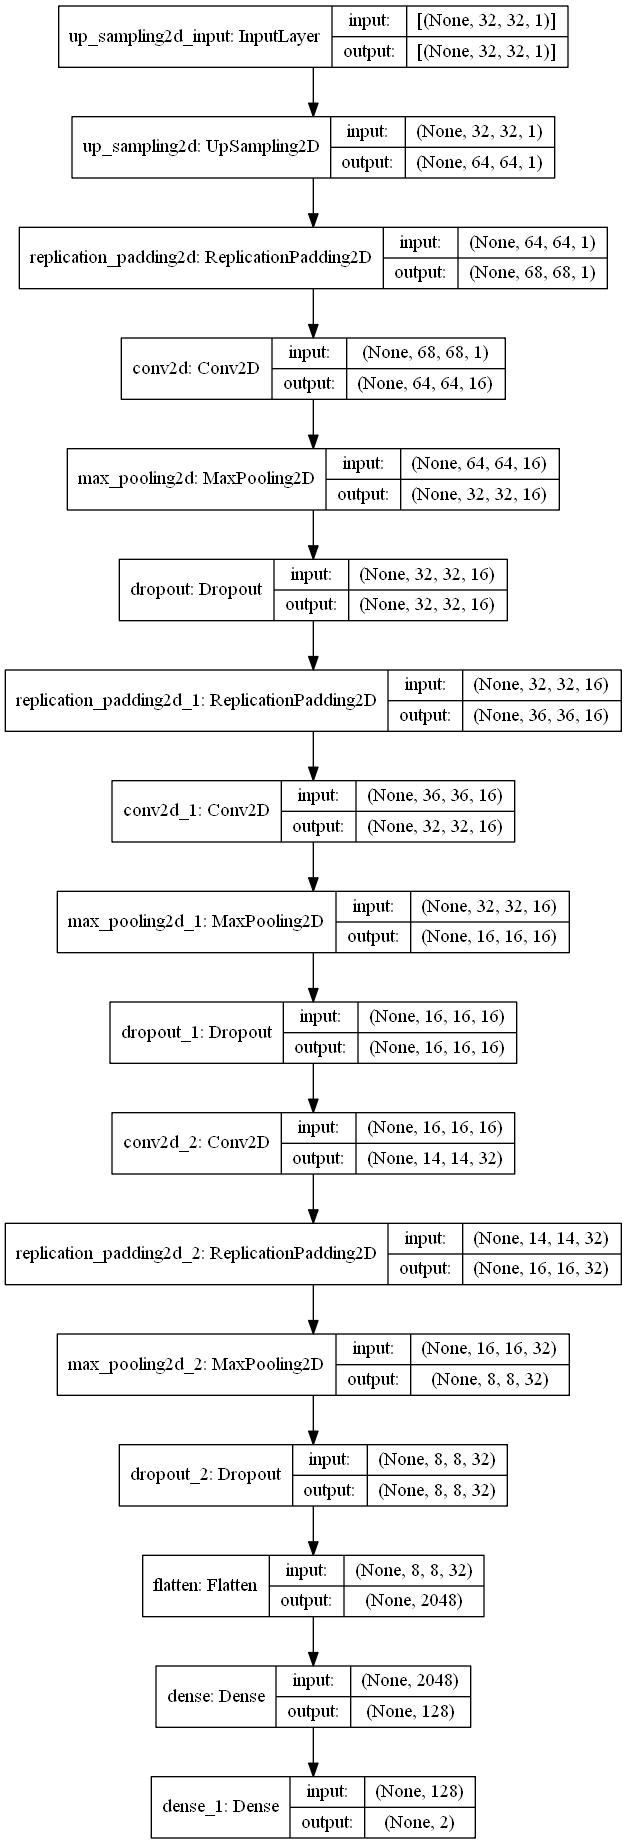
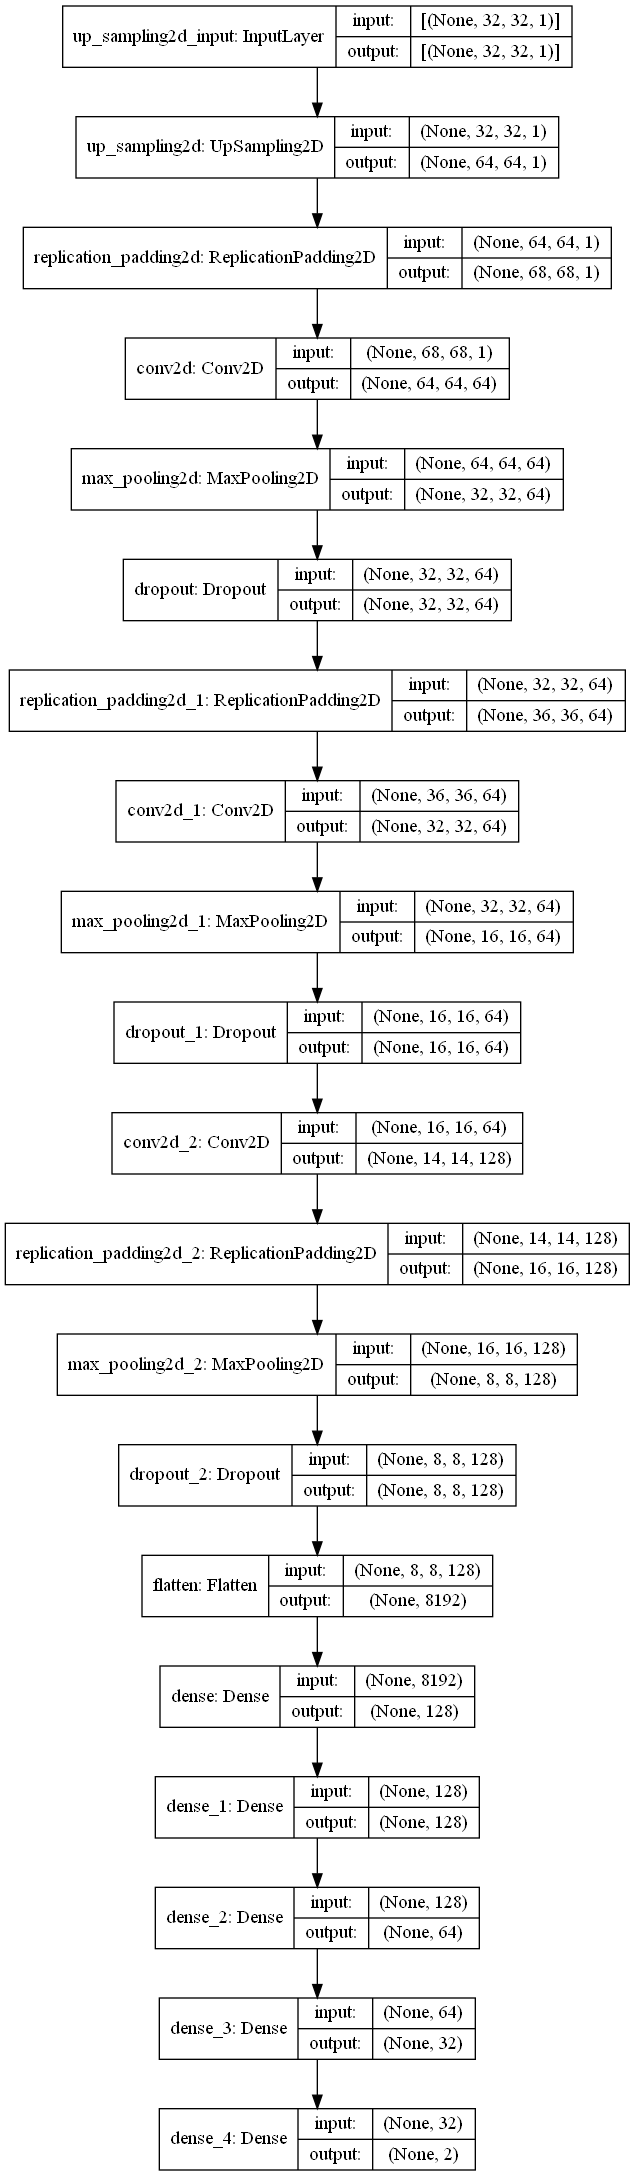
ss

Changed region(s): [[0.0, 0.0, 1.0, 1.0], [0.9091, 0.6491, 0.9697, 0.711]]

diff --git a/main.py b/main.py
@@ -8,34 +8,73 @@ from keras.utils import plot_model
 import Gloable_Var
 import Models
 
-index_Array = np.loadtxt( Gloable_Var.data_p + "\LC_fit\Good_Index.txt")
-# index_Array = np.arange(180)
-index_Array = index_Array.astype(int)
+def CNN_model():
+    index_Array = np.loadtxt( Gloable_Var.data_p + "\LC_fit\Good_Index.txt")
+    # index_Array = np.arange(180)
+    index_Array = index_Array[0:10000].astype(int)
 
 
-X_Buff, Y_Buff = Load_data.load_data_with_array(index_Array)
+    X_Buff, Y_Buff = Load_data.load_data_with_array(index_Array)
 
 
-num_pixels = X_Buff.shape[1]
-n_out = 2
-print(X_Buff.shape)
-X_Buff = X_Buff[:, :,:,np.newaxis]
-print(X_Buff.shape)
-L_Max = 0.8 * max(Y_Buff[:,0])
-C_Max = 0.8 * max(Y_Buff[:,1])
+    num_pixels = X_Buff.shape[1]
+    n_out = 2
+    print(X_Buff.shape)
+    X_Buff = X_Buff[:, :,:,np.newaxis]
+    print(X_Buff.shape)
+    L_Max = 0.8 * max(Y_Buff[:,0])
+    C_Max = 0.8 * max(Y_Buff[:,1])
 
-Y_Nor = np.zeros(np.shape(Y_Buff))
-Y_Nor[:,0] = Y_Buff[:,0]/L_Max
-Y_Nor[:,1] = Y_Buff[:,1]/C_Max
-
-
-X_train, X_test, Y_train, Y_test = train_test_split(X_Buff, Y_Buff, test_size=0.33, random_state=42)
+    Y_Nor = np.zeros(np.shape(Y_Buff))
+    Y_Nor[:,0] = Y_Buff[:,0]/L_Max
+    Y_Nor[:,1] = Y_Buff[:,1]/C_Max
 
 
-model = Models.CNN_model_2(num_pixels, n_out)
-plot_model( model, "CNN_2.png", show_shapes=True )
+    X_train, X_test, Y_train, Y_test = train_test_split(X_Buff, Y_Buff, test_size=0.33, random_state=42)
 
-model.fit(X_train, Y_train, validation_data=(X_test, Y_test), epochs=10, batch_size=10, verbose=2)
+    Model_name = "CNN_2"
+    Training_ite = Model_name+"_Try_3_larger"
+    model = Models.CNN_model_2(num_pixels, n_out)
+    plot_model( model, Model_name+".png", show_shapes=True )
 
-scores = model.evaluate(X_test, Y_test, verbose=0)
+    history = model.fit(X_train, Y_train, validation_data=(X_test, Y_test), epochs=100, batch_size=500, verbose=2)
+    np.save(Training_ite+".npy", history.history)
 
+    scores = model.evaluate(X_test, Y_test, verbose=0)
+
+def Baseline_model():
+    index_Array = np.loadtxt( Gloable_Var.data_p + "\LC_fit\Good_Index.txt")
+    # index_Array = np.arange(180)
+    index_Array = index_Array[0:10000].astype(int)
+
+
+    X_Buff, Y_Buff = Load_data.load_data_with_array(index_Array)
+
+
+    num_pixels = X_Buff.shape[1]
+    n_out = 2
+    num_pixels = X_Buff.shape[1] * X_Buff.shape[2]
+    X_Buff = X_Buff.reshape((X_Buff.shape[0], num_pixels)).astype('float32')
+
+    L_Max = 0.8 * max(Y_Buff[:,0])
+    C_Max = 0.8 * max(Y_Buff[:,1])
+
+    Y_Nor = np.zeros(np.shape(Y_Buff))
+    Y_Nor[:,0] = Y_Buff[:,0]/L_Max
+    Y_Nor[:,1] = Y_Buff[:,1]/C_Max
+
+
+    X_train, X_test, Y_train, Y_test = train_test_split(X_Buff, Y_Buff, test_size=0.1, random_state=4642)
+
+    Model_name = "Baseline_2"
+    Training_ite = Model_name+"_Try_1"
+    model = Models.baseline_model(num_pixels, n_out)
+    plot_model( model, Model_name+".png", show_shapes=True )
+
+    history = model.fit(X_train, Y_train, validation_data=(X_test, Y_test), epochs=100, batch_size=500, verbose=2)
+    np.save(Training_ite+".npy", history.history)
+
+    scores = model.evaluate(X_test, Y_test, verbose=0)
+
+
+Baseline_model()

diff --git a/Models.py b/Models.py
@@ -11,11 +11,24 @@ import keras
 def baseline_model(in_dim, n_out):
     model = Sequential()
     model.add(Dense(in_dim, input_dim= in_dim, activation="sigmoid"))
-    model.add(Dense(0.5*in_dim, activation="sigmoid"))
+    model.add(Dense(2 * in_dim, activation="sigmoid"))
+    model.add(Dense(2 * in_dim, activation="relu"))
+    model.add(Dense(4 * in_dim, activation="sigmoid"))
+    model.add(Dense(4 * in_dim, activation="relu"))
+    model.add(Dense(2 * in_dim, activation="sigmoid"))
+    model.add(Dense(2 * in_dim, activation="relu"))
+    model.add(Dense( in_dim, activation="relu"))
+    model.add(Dense( in_dim, activation="sigmoid"))
+    model.add(Dense(0.5 * in_dim, activation="relu"))
+    model.add(Dense(0.5 * in_dim, activation="sigmoid"))
+    model.add(Dense(0.25 * in_dim, activation="relu"))
+    model.add(Dense(0.125 * in_dim, activation="relu"))
+    model.add(Dense( in_dim /32, activation="relu"))
+    model.add(Dense(in_dim / 128, activation="relu"))
     model.add(LeakyReLU(alpha=0.1))
     model.add(Dense(n_out, activation="sigmoid"))
 
-    opt = keras.optimizers.SGD(learning_rate=0.01, momentum=0.5)
+    opt = keras.optimizers.SGD(learning_rate=0.4, momentum=0.0)
     # losses = keras.losses.mean_absolute_error()
     model.compile(loss="MAE", optimizer=opt )
 
@@ -53,16 +66,16 @@ def CNN_model_2( n_pix, n_out):
 
     model.add(UpSampling2D((2,2), input_shape=(n_pix, n_pix, 1)))
     model.add(ReplicationPadding2D(padding=(2, 2)))
-    model.add(Conv2D(16, (5, 5), activation='sigmoid'))
+    model.add(Conv2D(64, (5, 5), activation='sigmoid'))
     model.add(MaxPooling2D())
     model.add(Dropout(0.2))
 
     model.add(ReplicationPadding2D(padding=(2, 2)))
-    model.add(Conv2D(16, (5, 5), activation='sigmoid'))
+    model.add(Conv2D(64, (5, 5), activation='sigmoid'))
     model.add(MaxPooling2D())
     model.add(Dropout(0.2))
 
-    model.add(Conv2D(32, (3, 3), activation='sigmoid'))
+    model.add(Conv2D(128, (3, 3), activation='sigmoid'))
     model.add(ReplicationPadding2D(padding=(1, 1)))
     model.add(MaxPooling2D())
     model.add(Dropout(0.2))
@@ -74,6 +87,9 @@ def CNN_model_2( n_pix, n_out):
 
     model.add(Flatten())
     model.add(Dense(128, activation='sigmoid'))
+    model.add(Dense(128, activation='sigmoid'))
+    model.add(Dense(64, activation='sigmoid'))
+    model.add(Dense(32, activation='sigmoid'))
     model.add(Dense(n_out, activation='sigmoid'))
     # Compile model
     opt = keras.optimizers.SGD(learning_rate=0.01, momentum=0.5)

diff --git a/Load_data.py b/Load_data.py
@@ -9,18 +9,16 @@ def load_data_with_array(index_Array):
     load_y_p = Var.data_p + "LC_fit\\"
     Buff_LC = np.array([])
     for i in range(Max + 1):
-        print(i)
         lc_nm = "LC_P" + str(i) + ".txt"
         if (Buff_LC.size == 0):
             Buff_LC = np.loadtxt(load_y_p + lc_nm)
         else:
             Buff_LC = np.append(Buff_LC, np.loadtxt(load_y_p + lc_nm), axis=0)
-        print(np.shape(Buff_LC))
-
+        print(i, "in", Max )
+    print("finish loading LC cir")
     load_x_p = Var.data_p + "Mat\\"
 
     x = np.array([])
-    print(x.size)
     y = np.array([])
     for i in range(len(index_Array)):
         x_nm = "Mat_" + str(index_Array[i]) + ".txt"
@@ -33,8 +31,10 @@ def load_data_with_array(index_Array):
             y = [Buff_LC[index_Array[i], 1:3]]
         else:
             y = np.append(y, [Buff_LC[index_Array[i], 1:3]], axis=0)
+        if(i%N_pack == 0):
+            print(i, "in", range(len(index_Array)))
+    print("print finish loading X")
 
-    print(np.shape(y))
     return x, y
 
 

diff --git a/Test_Pool.py b/Test_Pool.py
@@ -27,7 +27,7 @@ def baseline_model():
     Y_Nor = np.zeros(np.shape(Y_Buff))
     Y_Nor[:,0] = Y_Buff[:,0]/L_Max
     Y_Nor[:,1] = Y_Buff[:,1]/C_Max
-
+    num_pixels = X_Buff.shape[1] * X_Buff.shape[2]
     X_Buff = X_Buff.reshape((X_Buff.shape[0], num_pixels)).astype('float32')
 
     # print( statistics.mean(Y_Nor[:,0]), statistics.mean(Y_Nor[:,1]) )

diff --git a/Gloable_Var.py b/Gloable_Var.py
@@ -1,5 +1,5 @@
-data_p = "D:\Dropbox\Python Program\Forward Interpretor\\test\\"
+data_p = "D:\Jiangy\JY_Python\Fast_forward_generator\Save\\"
 
 
 n_pix = 32
-N_pack = 100
+N_pack = 1000
